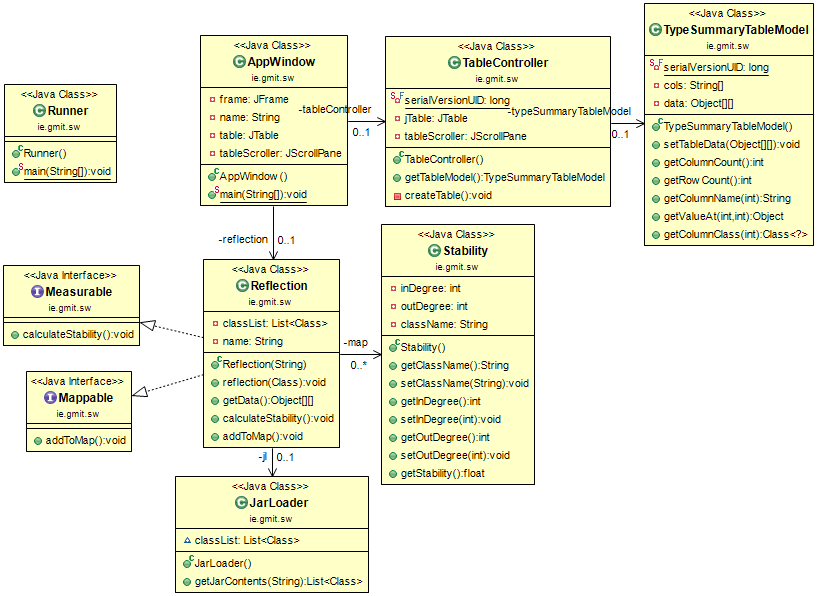
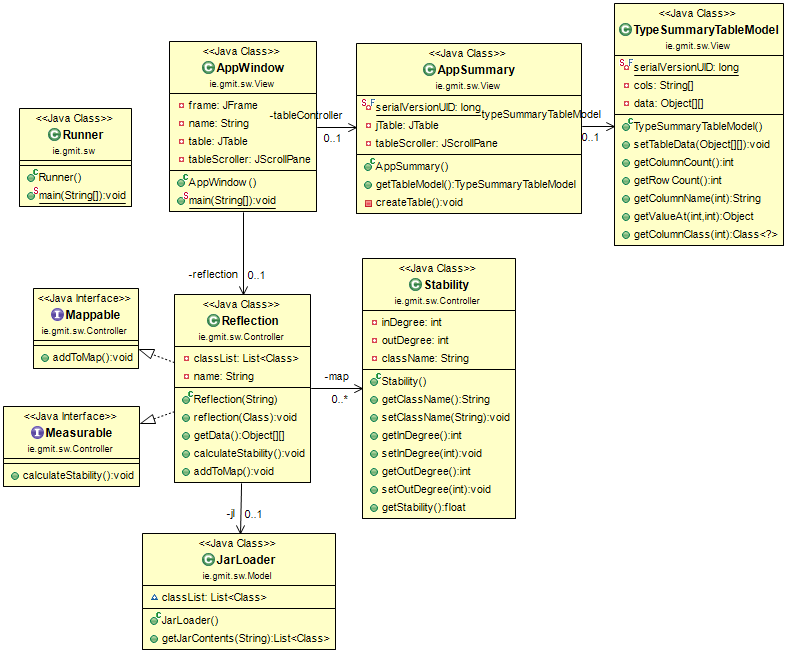
Update README

Changed region(s): [[0.0, 0.0, 1.0, 0.9966], [0.0, 0.1208, 0.183, 0.3322]]

diff --git a/Reflection/src/ie/gmit/sw/View/AppWindow.java b/Reflection/src/ie/gmit/sw/View/AppWindow.java
@@ -27,7 +27,7 @@ import java.awt.Insets;
 public class AppWindow {
 	private JFrame frame;
 	private String name;
-	private TableController tableController;
+	private AppSummary tableController;
 	private JTable table = new JTable();
 	private JScrollPane tableScroller = new JScrollPane();
 	private Reflection reflection;
@@ -122,7 +122,7 @@ public class AppWindow {
 				if(name.endsWith(".jar")){
 					try {
 						reflection = new Reflection(name);
-						tableController = new TableController();
+						tableController = new AppSummary();
 						TypeSummaryTableModel typeSummaryTableModel = tableController.getTableModel();
 
 						

diff --git a/Reflection/src/ie/gmit/sw/View/AppSummary.java b/Reflection/src/ie/gmit/sw/View/AppSummary.java
@@ -2,7 +2,7 @@ package ie.gmit.sw.View;
 
 import javax.swing.*;
 
-public class TableController extends JTable{
+public class AppSummary extends JTable{
 	private static final long serialVersionUID = 777L;	
 	private TypeSummaryTableModel typeSummaryTableModel;
 	@SuppressWarnings("unused")
@@ -13,7 +13,7 @@ public class TableController extends JTable{
 	/**
 	 * TableController Constructor
 	 */
-	public TableController(){
+	public AppSummary(){
 		createTable();
 	}
 	

diff --git a/README.md b/README.md
@@ -40,11 +40,11 @@ Launch the command Line and navigate to the src folder inside the project folder
 ## Built With
 
 * [Java 8](http://www.oracle.com/technetwork/java/javase/downloads/jdk8-downloads-2133151.html) - JDK
-* [Eclipse Neon](http://www.eclipse.org/neon/)  - Eclipse
+* [Eclipse Neon](http://www.eclipse.org/neon/)  - Eclipse Java EE IDE for Web Developers. Version: Neon.1a Release (4.6.1)
 
 ## Authors
 
-* **Sean Fitzpatrick**
+[Sean Fitzpatrick](https://github.com/seanJosephFitzpatrick)
 
 ## License
 
